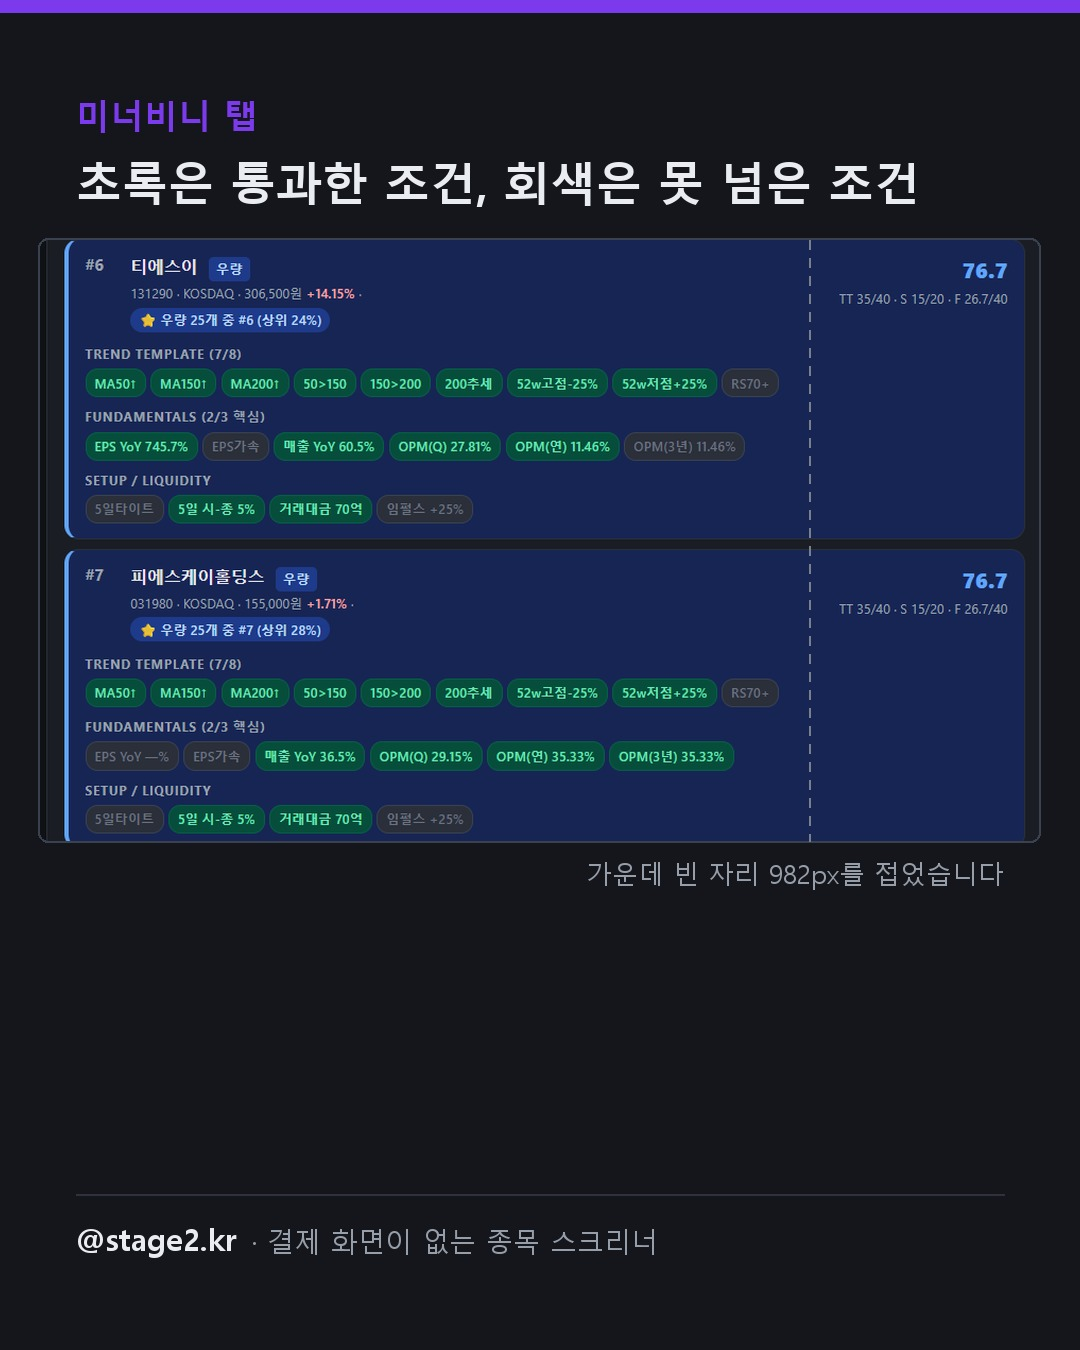
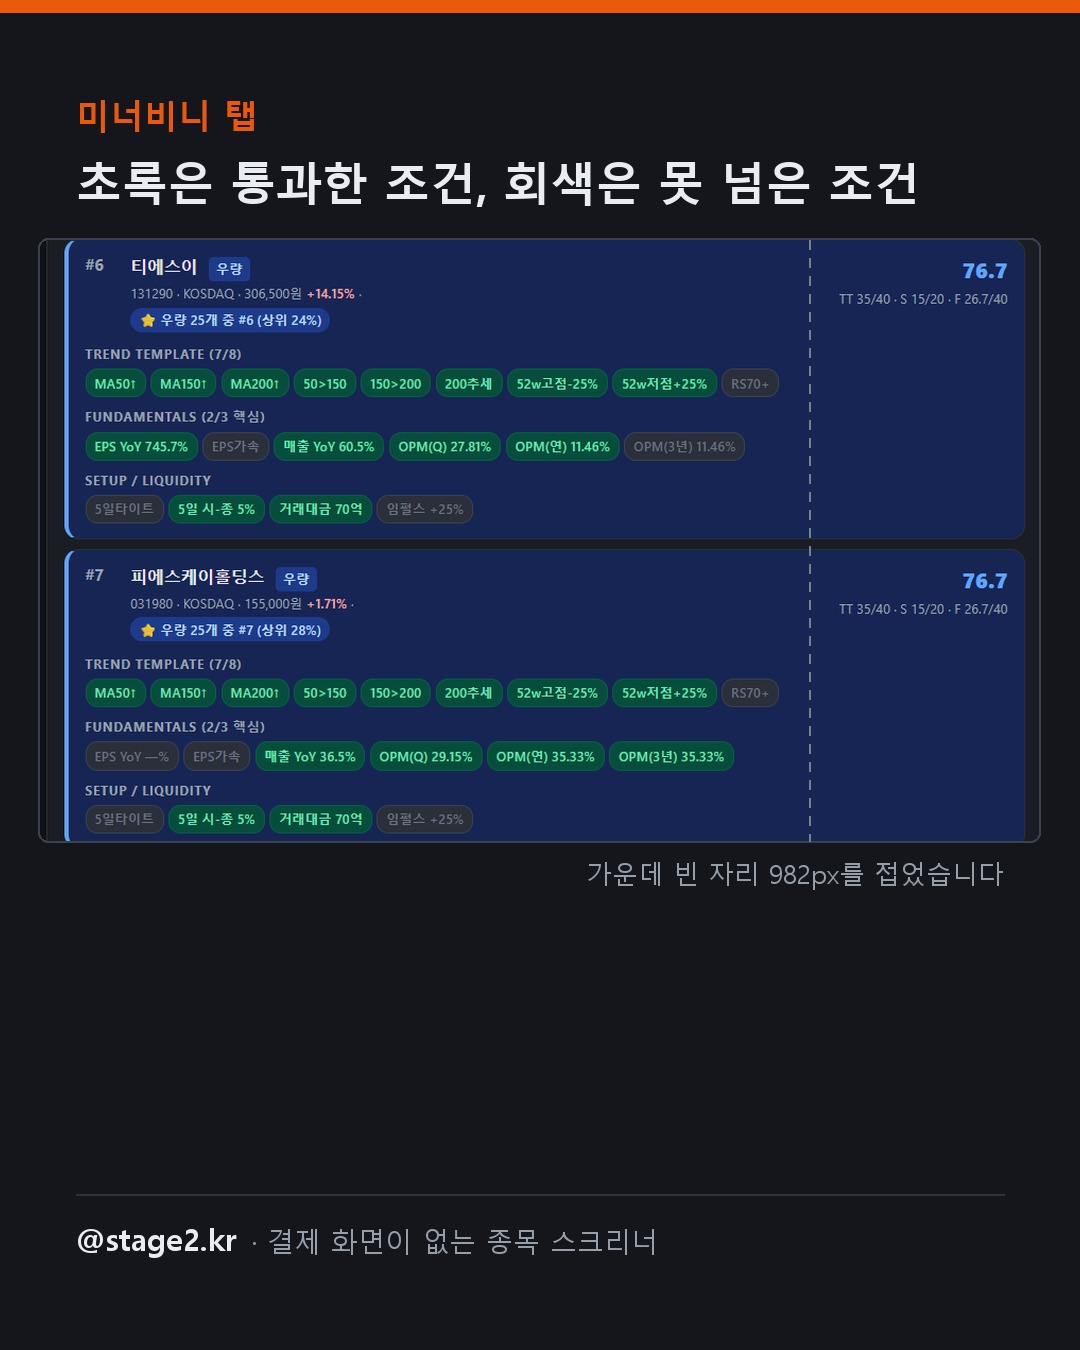
style: 카드 박스를 실제로 보이게 하고 강조색을 하나로 맞춘다
박스가 없던 게 아니라 있는데 안 보였다. 배경(250,249,246)과 패널(255,255,255)의
명도차가 6밖에 안 됐고, 테두리 대비는 1.08:1이었다. 피드에서 축소되고 JPEG
압축까지 먹으면 경계가 사라진다. 흰색은 상한이라 더 밝힐 데가 없으므로 배경을
낮춰 대비를 벌렸다. 명도차 6 -> 17.8.

items(단계 목록)는 박스가 아예 없었다. rows 카드에는 있고 여기에는 없어서
같은 계정 카드인데 다른 물건처럼 보였다. 같은 패널 위에 올렸다.

강조색을 통일했다. 어두운 카드는 보라(124,58,237), 밝은 카드는 주황(234,88,12)을
쓰고 있었다. 같은 피드에 두 색이 번갈아 올라가면 밝기보다 이게 먼저 "다른
계정"으로 읽힌다. 주황으로 맞췄다 — 사이트 뱃지와 이어지고, 보라는 금융
쪽에서 색이 약하다.

패널 왼쪽에 액센트 막대를 넣었다. 임의로 고른 장식이 아니라 사이트 종목
카드의 border-left(index.html의 .mv-card)에서 가져왔다. 사진과 사이트가 같은
표시를 쓰면 사진을 보고 들어온 사람이 같은 물건으로 알아본다.

표에서는 mark를 준 줄에만 막대가 붙는다. 손절선 -7%, "손절 규칙을 지켰을 때"
처럼 답이 있는 표에서 내가 쓰는 값이 어느 것인지 글을 안 읽어도 보인다.
mark가 하나도 없으면 전 줄에 붙는다 — 동등한 목록이라는 뜻이다.

값은 옅은 칩 위에 올렸다. 라벨과 값이 양끝으로 벌어지면 시선이 가운데서
끊기는데, 칩이 오른쪽에서 붙잡아 준다.

밝기는 통일하지 않는다. 밝은 카드는 내가 설명하는 것(배포·조건·숫자),
어두운 카드는 제품이 보여주는 것(매일 종목 카드, 탭 화면)이다. 설명 카드가
밝아야 하는 이유는 그대로다 — 어두운 배경에 빨강·초록 숫자는 피드에서
리딩방 광고로 읽힌다. 밝기가 달라도 박스 구조와 강조색이 같으면 한 계정으로
읽힌다.

카드 10장을 다시 그렸다.

Changed region(s): [[0.0, 0.0, 1.0, 0.0311], [0.0611, 0.0622, 0.2444, 0.1244]]

diff --git a/scripts/social/card.py b/scripts/social/card.py
@@ -28,9 +28,14 @@ CARD_DIR = ROOT / "assets" / "cards"
 W, H = 1080, 1350
 PAD = 76
 
+# 강조색은 밝은 카드와 어두운 카드가 같은 값을 쓴다. 예전에는 어두운 쪽이
+# 보라(124,58,237)였는데, 같은 계정 피드에 보라 카드와 주황 카드가 번갈아
+# 올라가면 밝기보다 이게 먼저 "다른 계정"으로 읽힌다.
+ACCENT = (234, 88, 12)
+
 BG = (20, 22, 27)
-PANEL = (30, 34, 42)
-ACCENT = (124, 58, 237)
+PANEL = (32, 36, 45)
+BORDER = (58, 65, 79)
 FG = (233, 236, 241)
 FG_DIM = (150, 158, 170)
 UP = (239, 68, 68)      # 국내 관행: 상승 빨강
@@ -173,6 +178,23 @@ def build_cards(cards, render, **kwargs):
         print(f"카드 생성: assets/cards/{name}")
 
 
+def _panel(d, top, bottom, fill, border=None, bar=None, radius=16):
+    """카드 안의 박스 하나. 밝은 쪽과 어두운 쪽이 같은 함수를 쓴다.
+
+    왼쪽 액센트 막대는 사이트 종목 카드의 border-left에서 가져왔다
+    (index.html의 .mv-card). 사진과 사이트가 같은 표시를 쓰면, 사진을 보고
+    들어온 사람이 같은 물건으로 알아본다.
+
+    막대는 둥근 사각형을 겹쳐 그린 뒤 오른쪽을 패널 색으로 덮는다. 그래야
+    바깥 모서리는 둥글고 안쪽은 각져서 패널에 붙어 보인다.
+    """
+    d.rounded_rectangle([PAD, top, W - PAD, bottom], radius=radius,
+                        fill=fill, outline=border, width=2 if border else 0)
+    if bar:
+        d.rounded_rectangle([PAD, top, PAD + 14, bottom], radius=radius, fill=bar)
+        d.rectangle([PAD + 8, top + 2, PAD + 16, bottom - 2], fill=fill)
+
+
 def render_card(post, out_path, brand="종목노트", url=""):
     """compose.py가 만든 post dict를 카드 이미지로 그린다."""
     img = Image.new("RGB", (W, H), BG)
@@ -217,9 +239,9 @@ def render_card(post, out_path, brand="종목노트", url=""):
 
     for i, it in enumerate(items, 1):
         top = y
-        d.rounded_rectangle([PAD, top, W - PAD, top + row_h - 14], radius=18, fill=PANEL)
+        _panel(d, top, top + row_h - 14, PANEL, border=BORDER, bar=ACCENT, radius=18)
 
-        bx = PAD + 22
+        bx = PAD + 36  # 왼쪽 액센트 막대(14px)를 피한다
         d.rounded_rectangle([bx, top + 30, bx + 46, top + 76], radius=12, fill=ACCENT)
         d.text((bx + 16, top + 38), str(i), font=f_rank, fill=(255, 255, 255))
 
@@ -360,12 +382,16 @@ def prune_cards(keep_days=60):
 # headline 각 줄에서 *별표*로 감싼 부분만 강조색으로 그린다.
 #   ["이게 *다* 나옵니다"]
 
-P_BG = (250, 249, 246)
+# 배경을 낮춘다. 흰 패널이 상한이라 더 밝힐 데가 없어서, 대비를 벌리려면
+# 배경을 내려야 한다. 예전 값(250,249,246)은 패널과 명도차가 6밖에 안 돼
+# 피드에서 축소되고 압축까지 먹으면 박스가 사라졌다.
+P_BG = (240, 237, 231)
 P_FG = (24, 24, 27)
 P_DIM = (113, 113, 122)
-P_ACCENT = (234, 88, 12)
+P_ACCENT = ACCENT
 P_PANEL = (255, 255, 255)
-P_BORDER = (228, 228, 231)
+P_BORDER = (213, 207, 196)
+P_CHIP = (245, 242, 236)
 P_HL_BG = (220, 252, 231)
 P_HL_FG = (22, 101, 52)
 
@@ -420,36 +446,52 @@ def render_promo_card(spec, out_path):
 
     rows = spec.get("rows") or []
     if rows:
-        h = min(124, max(72, (body_bottom - y) // max(1, len(rows))))
+        h = min(124, max(78, (body_bottom - y) // max(1, len(rows))))
         # 남는 자리는 위아래로 나눠 블록을 가운데 둔다.
         # 그러지 않으면 강조 박스 위가 빈 공간으로 남는다.
         y += max(0, (body_bottom - y) - h * len(rows)) // 2
+        # 한 줄에만 mark를 주면 그 줄에만 막대가 붙는다. 답이 있는 표
+        # (예: 손절선 -7%)에서 "이게 내가 쓰는 값"이 그림으로 전달된다.
+        # mark가 하나도 없으면 모든 줄에 막대를 둔다 — 동등한 목록이라는 뜻이다.
+        any_mark = any(r.get("mark") for r in rows)
         for r in rows:
-            d.rounded_rectangle(
-                [PAD, y, W - PAD, y + h - 12], radius=16,
-                fill=P_PANEL, outline=P_BORDER, width=2,
-            )
-            d.text((PAD + 28, y + (h - 12) // 2 - 22), _fit(d, r.get("label", ""), f_label, inner_w // 2),
+            top, bot = y, y + h - 12
+            _panel(d, top, bot, P_PANEL, border=P_BORDER,
+                   bar=P_ACCENT if (not any_mark or r.get("mark")) else None)
+            cy = (top + bot) // 2
+            d.text((PAD + 34, cy - 20), _fit(d, r.get("label", ""), f_label, inner_w // 2),
                    font=f_label, fill=P_DIM)
+            # 값은 칩 위에 올린다. 라벨과 값이 양끝으로 벌어지면 시선이
+            # 가운데서 끊기는데, 칩이 오른쪽에서 시선을 붙잡는다.
             val = r.get("value", "")
             vw = d.textlength(val, font=f_value)
-            d.text((W - PAD - 28 - vw, y + (h - 12) // 2 - 24), val, font=f_value, fill=P_FG)
+            right = W - PAD - 18
+            d.rounded_rectangle([right - vw - 32, cy - 30, right, cy + 30],
+                                radius=12, fill=P_CHIP)
+            d.text((right - vw - 16, cy - 24), val, font=f_value, fill=P_FG)
             y += h
 
     items = spec.get("items") or []
     if items:
-        h = min(150, max(88, (body_bottom - y) // max(1, len(items))))
+        # 예전에는 번호와 글자가 맨바닥에 놓여 있었다. rows 카드에는 박스가
+        # 있고 여기에는 없어서, 같은 계정 카드인데 다른 물건처럼 보였다.
+        h = min(156, max(104, (body_bottom - y) // max(1, len(items))))
         y += max(0, (body_bottom - y) - h * len(items)) // 2
         for i, it in enumerate(items, 1):
-            cy = y + 10
-            d.ellipse([PAD, cy, PAD + 54, cy + 54], fill=P_ACCENT)
+            top, bot = y, y + h - 14
+            _panel(d, top, bot, P_PANEL, border=P_BORDER, bar=P_ACCENT)
+            cy = (top + bot) // 2
+            d.ellipse([PAD + 34, cy - 28, PAD + 90, cy + 28], fill=P_ACCENT)
             nw = d.textlength(str(i), font=f_num)
-            d.text((PAD + 27 - nw / 2, cy + 7), str(i), font=f_num, fill=(255, 255, 255))
-            tx = PAD + 82
-            tw = W - PAD - tx
-            d.text((tx, y + 6), _fit(d, it.get("title", ""), f_title, tw), font=f_title, fill=P_FG)
-            if it.get("note"):
-                d.text((tx, y + 58), _fit(d, it["note"], f_note, tw), font=f_note, fill=P_DIM)
+            d.text((PAD + 62 - nw / 2, cy - 21), str(i), font=f_num, fill=(255, 255, 255))
+            tx = PAD + 110
+            tw = W - PAD - tx - 24
+            has_note = bool(it.get("note"))
+            d.text((tx, cy - (34 if has_note else 20)),
+                   _fit(d, it.get("title", ""), f_title, tw), font=f_title, fill=P_FG)
+            if has_note:
+                d.text((tx, cy + 12), _fit(d, it["note"], f_note, tw),
+                       font=f_note, fill=P_DIM)
             y += h
 
     if hl_lines:

diff --git a/scripts/make_promo_cards.py b/scripts/make_promo_cards.py
@@ -72,7 +72,7 @@ CARDS = {
             {"label": "검증한 종목", "value": "77개 · 888건"},
             {"label": "그냥 들고 있었을 때", "value": "평균 -15.2%"},
             {"label": "같은 기간 코스피", "value": "평균 -10.9%"},
-            {"label": "손절 규칙을 지켰을 때", "value": "평균 -6.7%"},
+            {"label": "손절 규칙을 지켰을 때", "value": "평균 -6.7%", "mark": True},
             {"label": "제일 크게 깨진 한 건", "value": "-60.9% → -22.9%"},
         ],
         "highlight": "승률은 오히려 20.5%에서 13.9%로 떨어집니다. 자주 잘리는 대신 크게 깨지지 않습니다.",
@@ -132,7 +132,9 @@ CARDS = {
         "headline": ["손절선을 몇 %로", "*잡아야 하나*"],
         "rows": [
             {"label": "-5%", "value": "평균 -6.1% · 승률 11.9%"},
-            {"label": "-7%", "value": "평균 -6.7% · 승률 13.9%"},
+            # mark를 준 줄에만 왼쪽 막대가 붙는다. 내가 쓰는 값이 어느 것인지
+            # 글을 안 읽어도 보이게 하려는 것이다.
+            {"label": "-7%", "value": "평균 -6.7% · 승률 13.9%", "mark": True},
             {"label": "-10%", "value": "평균 -7.8% · 승률 17.5%"},
             {"label": "-15%", "value": "평균 -9.6% · 승률 21.5%"},
             {"label": "안 걸면", "value": "평균 -13.6% · 최악 -60.9%"},
